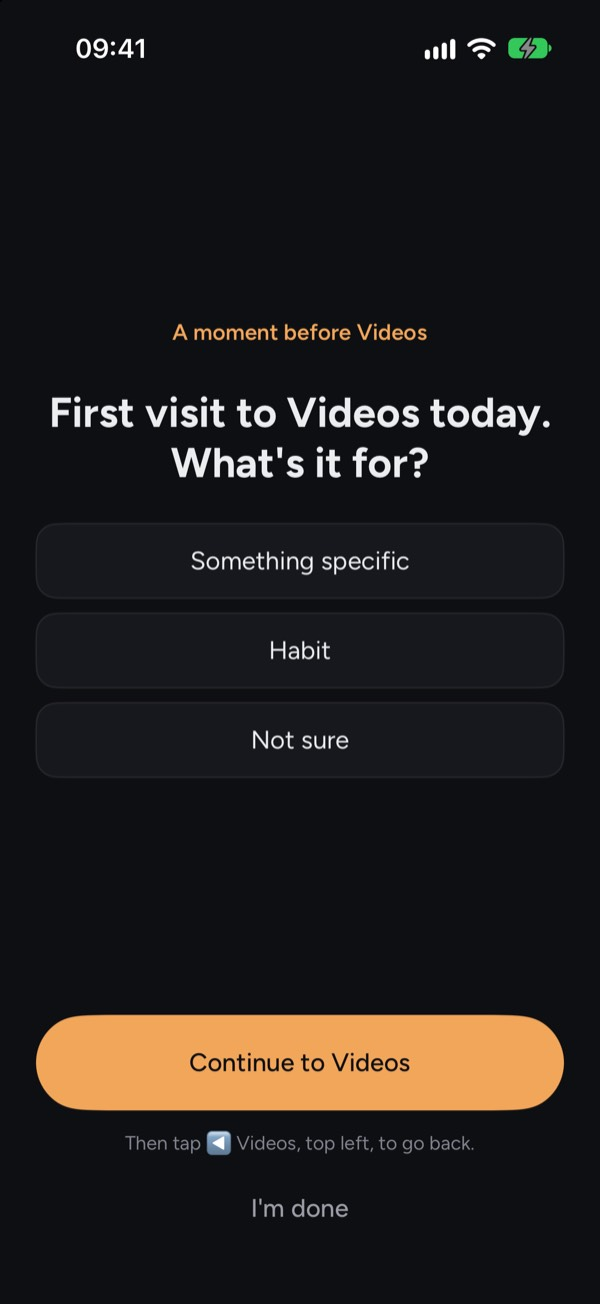
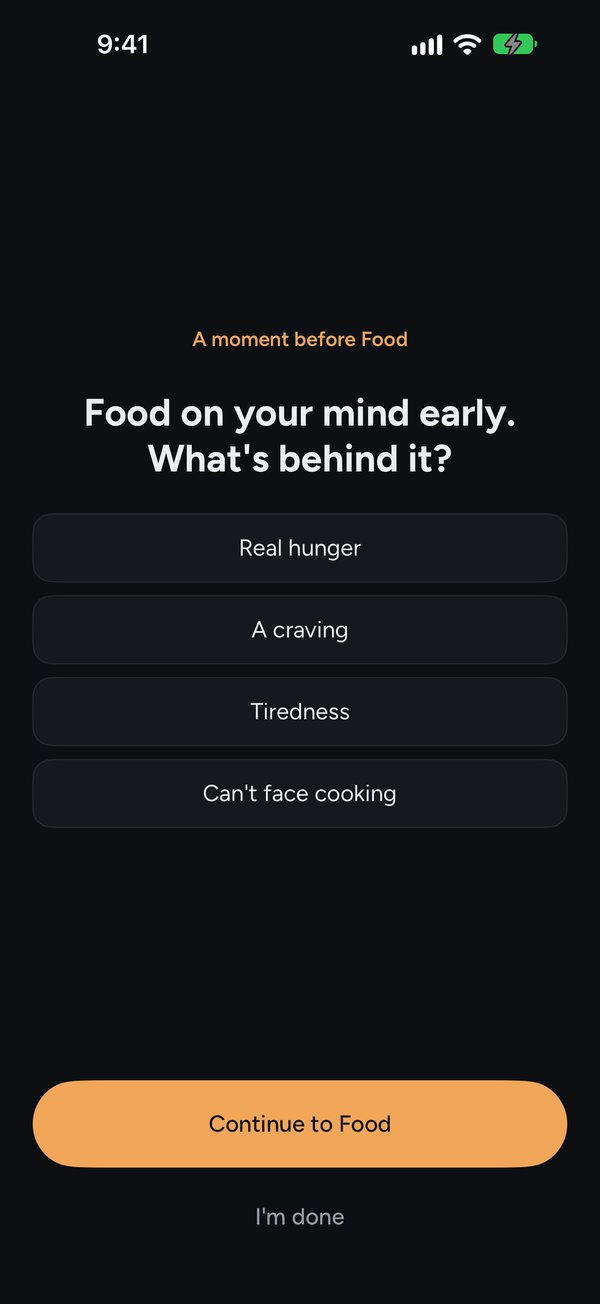
Heed: capturas de la web con las de la ficha 0.0.11 (sin el aviso «◀»), pie del momento al día

diff --git a/fr/apps/heed.html b/fr/apps/heed.html
@@ -66,7 +66,7 @@
   <section class="gallery" aria-label="Captures d’écran">
     <ul class="shots-rail" role="list">
       <li class="shot reveal" style="--i:0"><figure><div class="phone" data-tilt><img src="../../assets/shots/heed-01-today.jpg" alt="Capture d’écran de Heed : Aujourd’hui : une ligne pour la journée, et un bloc de concentration" width="600" height="1304" loading="lazy" decoding="async"></div><figcaption>Aujourd’hui : une ligne pour la journée, et un bloc de concentration</figcaption></figure></li>
-      <li class="shot reveal" style="--i:1"><figure><div class="phone" data-tilt><img src="../../assets/shots/heed-02-moment.jpg" alt="Capture d’écran de Heed : Un moment avant une app : tu viens pour quoi ?" width="600" height="1304" loading="lazy" decoding="async"></div><figcaption>Un moment avant une app : tu viens pour quoi ?</figcaption></figure></li>
+      <li class="shot reveal" style="--i:1"><figure><div class="phone" data-tilt><img src="../../assets/shots/heed-02-moment.jpg" alt="Capture d’écran de Heed : Un moment avant une app : qu’y a-t-il derrière ?" width="600" height="1304" loading="lazy" decoding="async"></div><figcaption>Un moment avant une app : qu’y a-t-il derrière ?</figcaption></figure></li>
       <li class="shot reveal" style="--i:2"><figure><div class="phone" data-tilt><img src="../../assets/shots/heed-03-stats.jpg" alt="Capture d’écran de Heed : Statistiques : tes ouvertures, et les fois où tu as laissé tomber" width="600" height="1304" loading="lazy" decoding="async"></div><figcaption>Statistiques : tes ouvertures, et les fois où tu as laissé tomber</figcaption></figure></li>
     </ul>
   </section>

diff --git a/es/apps/heed.html b/es/apps/heed.html
@@ -66,7 +66,7 @@
   <section class="gallery" aria-label="Capturas">
     <ul class="shots-rail" role="list">
       <li class="shot reveal" style="--i:0"><figure><div class="phone" data-tilt><img src="../../assets/shots/heed-01-today.jpg" alt="Captura de Heed: Hoy: una línea para el día, y un bloque de foco" width="600" height="1304" loading="lazy" decoding="async"></div><figcaption>Hoy: una línea para el día, y un bloque de foco</figcaption></figure></li>
-      <li class="shot reveal" style="--i:1"><figure><div class="phone" data-tilt><img src="../../assets/shots/heed-02-moment.jpg" alt="Captura de Heed: Un momento antes de una app: ¿a qué vienes?" width="600" height="1304" loading="lazy" decoding="async"></div><figcaption>Un momento antes de una app: ¿a qué vienes?</figcaption></figure></li>
+      <li class="shot reveal" style="--i:1"><figure><div class="phone" data-tilt><img src="../../assets/shots/heed-02-moment.jpg" alt="Captura de Heed: Un momento antes de una app: ¿qué hay detrás?" width="600" height="1304" loading="lazy" decoding="async"></div><figcaption>Un momento antes de una app: ¿qué hay detrás?</figcaption></figure></li>
       <li class="shot reveal" style="--i:2"><figure><div class="phone" data-tilt><img src="../../assets/shots/heed-03-stats.jpg" alt="Captura de Heed: Estadísticas: tus aperturas, y las veces que no entraste" width="600" height="1304" loading="lazy" decoding="async"></div><figcaption>Estadísticas: tus aperturas, y las veces que no entraste</figcaption></figure></li>
     </ul>
   </section>

diff --git a/apps/heed.html b/apps/heed.html
@@ -67,7 +67,7 @@
   <section class="gallery" aria-label="Screenshots">
     <ul class="shots-rail" role="list">
       <li class="shot reveal" style="--i:0"><figure><div class="phone" data-tilt><img src="../assets/shots/heed-01-today.jpg" alt="Heed screenshot: Today: one line for the day, and a focus block" width="600" height="1304" loading="lazy" decoding="async"></div><figcaption>Today: one line for the day, and a focus block</figcaption></figure></li>
-      <li class="shot reveal" style="--i:1"><figure><div class="phone" data-tilt><img src="../assets/shots/heed-02-moment.jpg" alt="Heed screenshot: A moment before an app: what is it for?" width="600" height="1304" loading="lazy" decoding="async"></div><figcaption>A moment before an app: what is it for?</figcaption></figure></li>
+      <li class="shot reveal" style="--i:1"><figure><div class="phone" data-tilt><img src="../assets/shots/heed-02-moment.jpg" alt="Heed screenshot: A moment before an app: what’s behind it?" width="600" height="1304" loading="lazy" decoding="async"></div><figcaption>A moment before an app: what’s behind it?</figcaption></figure></li>
       <li class="shot reveal" style="--i:2"><figure><div class="phone" data-tilt><img src="../assets/shots/heed-03-stats.jpg" alt="Heed screenshot: Statistics: your openings, and the times you did not go in" width="600" height="1304" loading="lazy" decoding="async"></div><figcaption>Statistics: your openings, and the times you did not go in</figcaption></figure></li>
     </ul>
   </section>

diff --git a/tools/gen_site.py b/tools/gen_site.py
@@ -388,7 +388,7 @@ APPS=[
                     ('03 / RODAR','Una pantalla pensada para la bici','La cadencia en un anillo que late con el ritmo, el movimiento y su cuenta atrás, el esfuerzo y la zona, lo que viene y la clase entera como una carretera. Tus clases van a tu historial y, si quieres, a Apple Salud.')],
           privacy='Tu perfil de ciclista, las respuestas del cuestionario de salud y tus marcas de canciones se quedan en tu iPhone, y tu historial de clases se sincroniza con tu propio iCloud. Tu nombre y tu nombre de usuario se guardan en la base de datos de iCloud de BeatRide para que los nombres de usuario no se repitan. Para medir una canción, BeatRide mide su avance de Apple Music en el dispositivo y envía su título, artista y duración a LRCLIB (solo los tiempos de la canción). El micrófono solo lo usa «Aprender escuchando», que guarda medidas y nunca graba. Sin anuncios y sin seguimiento.',
           captions=['Elige la clase, la duración y la música','Tu clase: su forma, y por qué está armada así','Rodando: la cadencia al ritmo, el movimiento, la zona y lo que viene'])),
- # Heed (0.0.11 en TestFlight, aún sin publicar en la Store): sin appstore hasta que esté a la venta.
+ # Heed (0.0.11 en revisión en la Store desde el 19/10/2026): sin appstore hasta que esté a la venta.
  app('heed','Heed','heed.png','Sendoa Sola','heed',
      ['heed-01-today.jpg','heed-02-moment.jpg','heed-03-stats.jpg'],
      dict(one='A moment before the apps you choose: a question, a breath or a fact about your day, written for that kind of app and that hour. Then you choose.',
@@ -399,7 +399,7 @@ APPS=[
                     ('02 / LEARN','What helps you, on your device','Heed notices which windows lead you to "I\'m done" and shows them more often, all of it on your device. The statistics show your openings per app and hour, how long you took to decide and what you felt before each app. In the hours you choose for rest, and during a focus block, every opening asks.'),
                     ('03 / THE DAY','One line for today','A line for the day with ideas to start from, a short closing of the day, a weekly review that slowly asks for less and a body programme of four stretches, eyes open or closed. Heed Pro adds as many apps as you like, focus blocks, the digital sunset, the whole programme, longer statistics, widgets and colour themes: a one-time purchase, with a free 30-day trial. No streaks, no points, no blame.')],
           privacy='No account, no analytics, no ads. Your settings and what you write stay on your device and in your own iCloud account; the record of your openings, and what Heed learns from it, never leave the device. Apple Health is optional, off by default and write-only. Heed cannot see what you do in other apps.',
-          captions=['Today: one line for the day, and a focus block','A moment before an app: what is it for?','Statistics: your openings, and the times you did not go in']),
+          captions=['Today: one line for the day, and a focus block','A moment before an app: what’s behind it?','Statistics: your openings, and the times you did not go in']),
      dict(one='Un momento antes de las apps que eliges: una pregunta, una respiración o un dato de tu día, escrito para ese tipo de app y esa hora. Luego eliges tú.',
           tags=['Bienestar','Atención','ES · EN · FR'],
           lede='<strong>Heed</strong> se antepone, con mesura, a las apps que eliges. La mayoría de las veces no verás nada. De vez en cuando, cuando importa, ofrece antes un momento: una pregunta, una respiración, un dato de tu día. Luego eliges tú, y «Seguir» siempre está ahí. No es un bloqueador; es una forma de darse cuenta, para que el móvil sea un poco menos automático, día a día.',
@@ -408,7 +408,7 @@ APPS=[
                     ('02 / APRENDER','Lo que te ayuda, en tu dispositivo','Heed se fija en qué ventanas te llevan a «Ya está» y las enseña más a menudo, todo en tu dispositivo. Las estadísticas enseñan tus aperturas por app y por hora, cuánto tardaste en decidir y qué sentías antes de cada app. En las horas que eliges para descansar, y durante un bloque de foco, cada apertura pregunta.'),
                     ('03 / EL DÍA','Una línea para hoy','Una línea para el día con ideas para empezar, un cierre breve del día, una revisión semanal que poco a poco pide menos y un programa corporal de cuatro tramos, con los ojos abiertos o cerrados. Heed Pro añade todas las apps que quieras, bloques de foco, el atardecer digital, el programa completo, más estadísticas, widgets y temas de color: un pago único, con prueba gratis de 30 días. Sin rachas, sin puntos, sin culpas.')],
           privacy='Sin cuenta, sin analíticas, sin anuncios. Tus ajustes y lo que escribes se quedan en tu dispositivo y en tu propia cuenta de iCloud; el registro de tus aperturas, y lo que Heed aprende de él, nunca salen del dispositivo. Apple Salud es opcional, está apagado por defecto y es solo de escritura. Heed no puede ver lo que haces en otras apps.',
-          captions=['Hoy: una línea para el día, y un bloque de foco','Un momento antes de una app: ¿a qué vienes?','Estadísticas: tus aperturas, y las veces que no entraste'])),
+          captions=['Hoy: una línea para el día, y un bloque de foco','Un momento antes de una app: ¿qué hay detrás?','Estadísticas: tus aperturas, y las veces que no entraste'])),
  # Atino (0.1.0, aún sin publicar en la Store): sin appstore hasta que `lookup` devuelva 1. Política propia en /atino/.
  app('atino','Atino','atino.png','Izotz Cristobal Mota','atino',
      ['atino-01-matches.jpg','atino-02-job.jpg','atino-03-filters.jpg'],

diff --git a/tools/gen_site_fr.py b/tools/gen_site_fr.py
@@ -186,7 +186,7 @@ APPS_FR = {
              ('02 / APPRENDRE','Ce qui t’aide, sur ton appareil','Heed remarque quelles fenêtres te mènent à « C’est bon » et les montre plus souvent, tout sur ton appareil. Les statistiques montrent tes ouvertures par app et par heure, le temps mis à décider et ce que tu ressentais avant chaque app. Aux heures que tu choisis pour te reposer, et pendant un bloc de concentration, chaque ouverture pose la question.'),
              ('03 / LA JOURNÉE','Une ligne pour aujourd’hui','Une ligne pour la journée avec des idées pour commencer, une courte clôture de la journée, une revue hebdomadaire qui en demande peu à peu moins et un programme corporel en quatre étapes, les yeux ouverts ou fermés. Heed Pro ajoute autant d’apps que tu veux, les blocs de concentration, le coucher de soleil numérique, le programme complet, plus de statistiques, des widgets et des thèmes de couleur : un achat unique, avec un essai gratuit de 30 jours. Pas de séries, pas de points, pas de reproches.')],
    privacy='Pas de compte, pas de mesure d’audience, pas de publicité. Tes réglages et ce que tu écris restent sur ton appareil et dans ton propre compte iCloud ; le journal de tes ouvertures, et ce que Heed en apprend, ne quittent jamais l’appareil. Santé est facultatif, désactivé par défaut et en écriture seule. Heed ne peut pas voir ce que tu fais dans les autres apps.',
-   captions=['Aujourd’hui : une ligne pour la journée, et un bloc de concentration','Un moment avant une app : tu viens pour quoi ?','Statistiques : tes ouvertures, et les fois où tu as laissé tomber']),
+   captions=['Aujourd’hui : une ligne pour la journée, et un bloc de concentration','Un moment avant une app : qu’y a-t-il derrière ?','Statistiques : tes ouvertures, et les fois où tu as laissé tomber']),
  'atino': dict(
    one='Importe ton CV et vois les offres d’emploi d’Europe classées selon leur correspondance, chacune avec un motif bref. Ton nom et tes coordonnées sont d’abord retirés sur ton iPhone.',
    tags=['Emploi','Europe','CV'],
